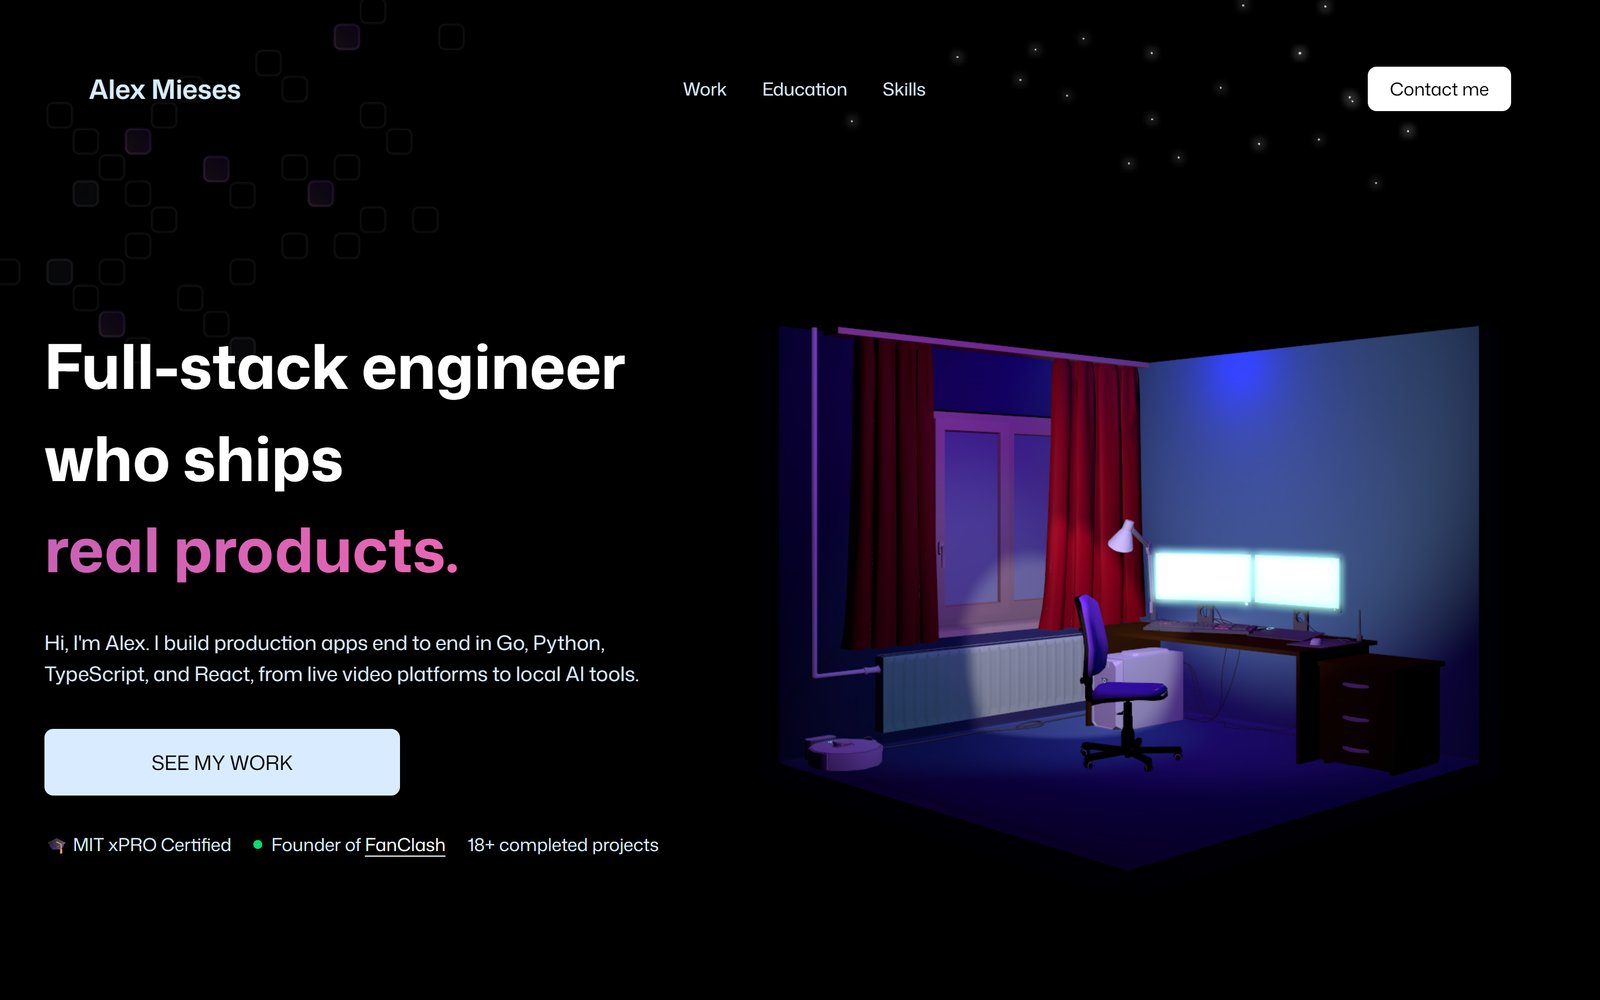
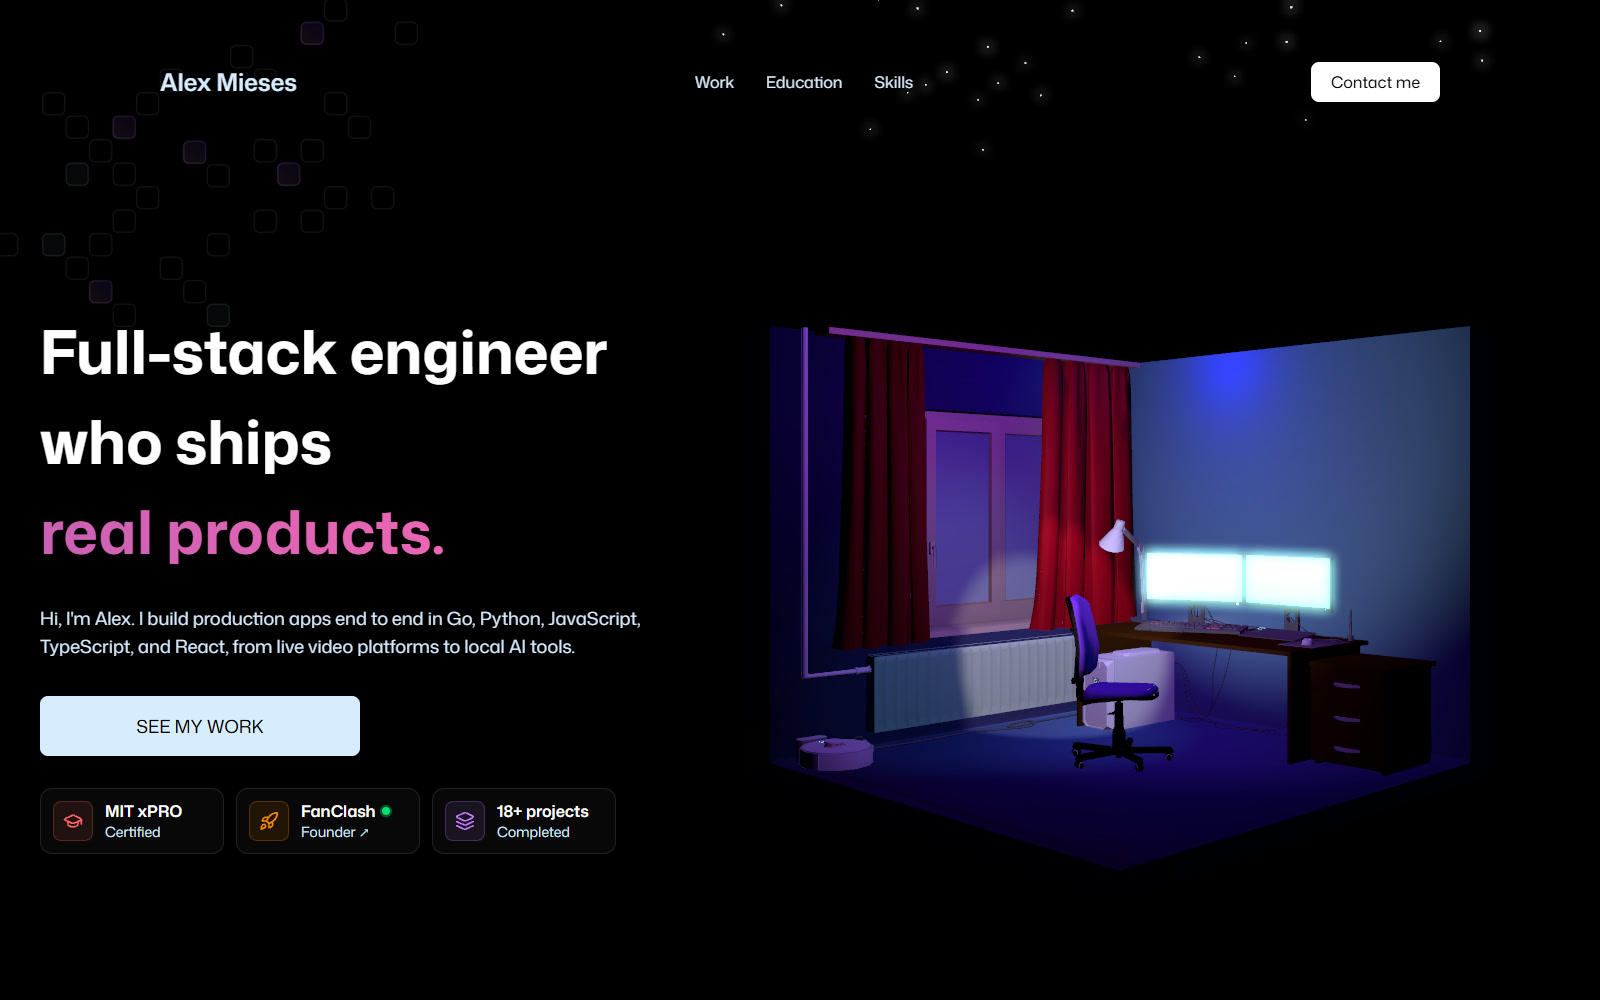
Retake the hero screenshot and show the README diagram in dark mode only
The hero screenshot predated the icon-card proof row, so it is retaken from
the live site. The Tech Stack diagram now always shows the dark version,
and the light GIF and SVG are removed.

diff --git a/README.md b/README.md
@@ -74,11 +74,7 @@ The site is a single landing page built around an interactive 3D room you can ro
 
 <p align="center">
   <a href="docs/diagrams/architecture-dark.svg" title="Open this diagram full size">
-    <picture>
-      <source media="(prefers-color-scheme: dark)" srcset="docs/diagrams/architecture-dark.gif" />
-      <source media="(prefers-color-scheme: light)" srcset="docs/diagrams/architecture-light.gif" />
-      <img src="docs/diagrams/architecture-light.gif" alt="How alexportfolio.net works: a visitor loads a single-page React 19 app in the browser, which renders the Three.js 3D scenes, runs GSAP scroll animations, and sends the contact form through EmailJS. Every push to main on GitHub is linted and built by GitHub Actions and deployed by Vercel." width="100%" />
-    </picture>
+    <img src="docs/diagrams/architecture-dark.gif" alt="How alexportfolio.net works: a visitor loads a single-page React 19 app in the browser, which renders the Three.js 3D scenes, runs GSAP scroll animations, and sends the contact form through EmailJS. Every push to main on GitHub is linted and built by GitHub Actions and deployed by Vercel." width="100%" />
   </a>
 </p>
 
